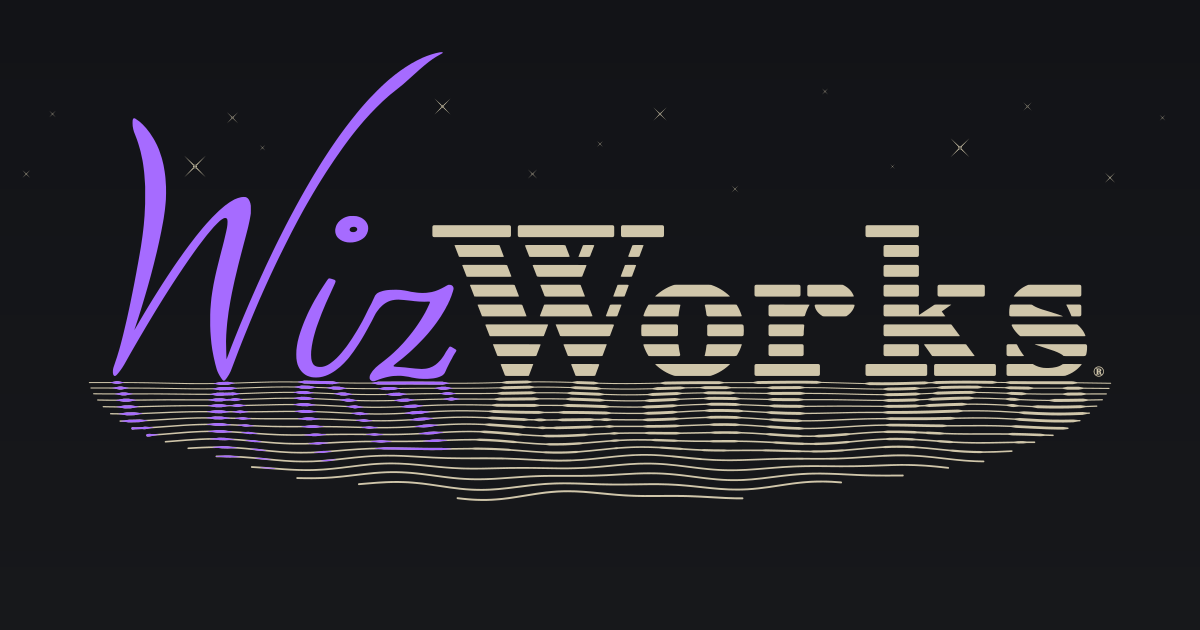
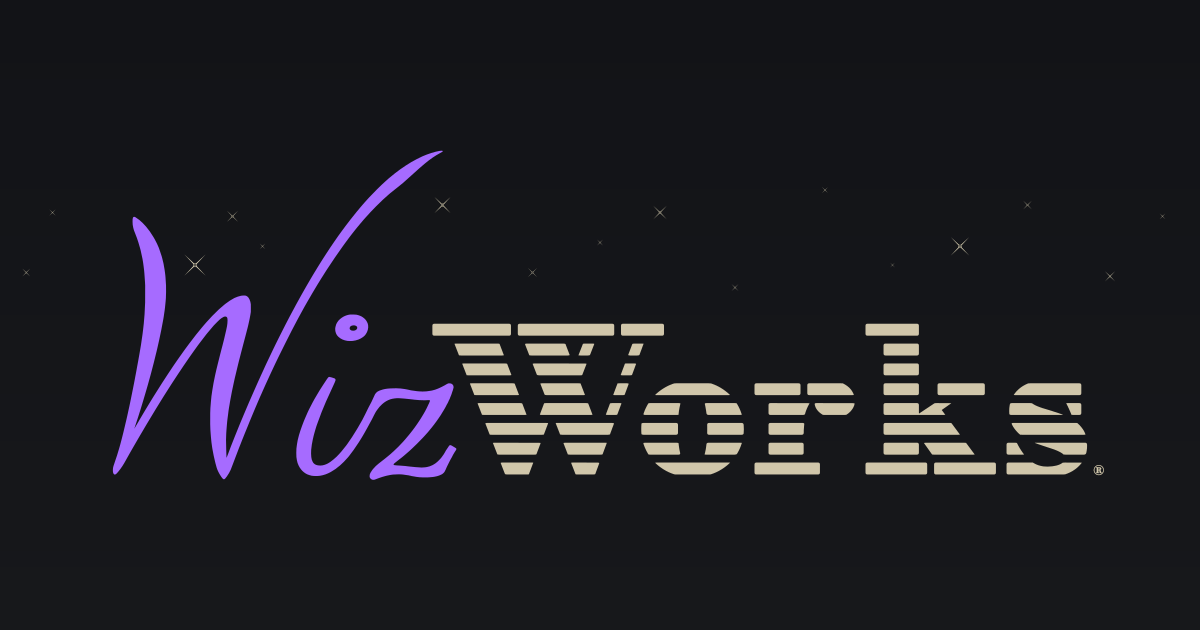
Adjust og mark and improve SEO

diff --git a/index.html b/index.html
@@ -8,15 +8,35 @@
   <meta name="color-scheme" content="dark">
   <meta name="theme-color" content="#121317">
   <meta property="og:type" content="website">
-  <meta property="og:url" content="https://wizworksinc.github.io/">
+  <meta property="og:url" content="https://wizworks.co/">
+  <meta property="og:site_name" content="WizWorks">
   <meta property="og:title" content="WizWorks">
   <meta property="og:description" content="All shall be revealed in due time.">
-  <meta property="og:image" content="https://wizworksinc.github.io/cdn/og.png">
+  <meta property="og:image" content="https://wizworks.co/cdn/og.png">
   <meta property="og:image:width" content="1200">
   <meta property="og:image:height" content="630">
-  <meta property="og:image:alt" content="The WizWorks wordmark over waves">
+  <meta property="og:image:alt" content="The WizWorks wordmark under a starry sky">
   <meta name="twitter:card" content="summary_large_image">
-  <link rel="canonical" href="https://wizworksinc.github.io/">
+  <link rel="canonical" href="https://wizworks.co/">
+  <script type="application/ld+json">
+  {
+    "@context": "https://schema.org",
+    "@graph": [
+      {
+        "@type": "WebSite",
+        "name": "WizWorks",
+        "url": "https://wizworks.co/"
+      },
+      {
+        "@type": "Organization",
+        "name": "WizWorks",
+        "url": "https://wizworks.co/",
+        "logo": "https://wizworks.co/apple-touch-icon.png",
+        "sameAs": ["https://github.com/WizWorksInc"]
+      }
+    ]
+  }
+  </script>
   <script type="module" src="main.js"></script>
   <link rel="icon" href="favicon.ico" sizes="32x32">
   <link rel="icon" href="favicon.svg" type="image/svg+xml">
